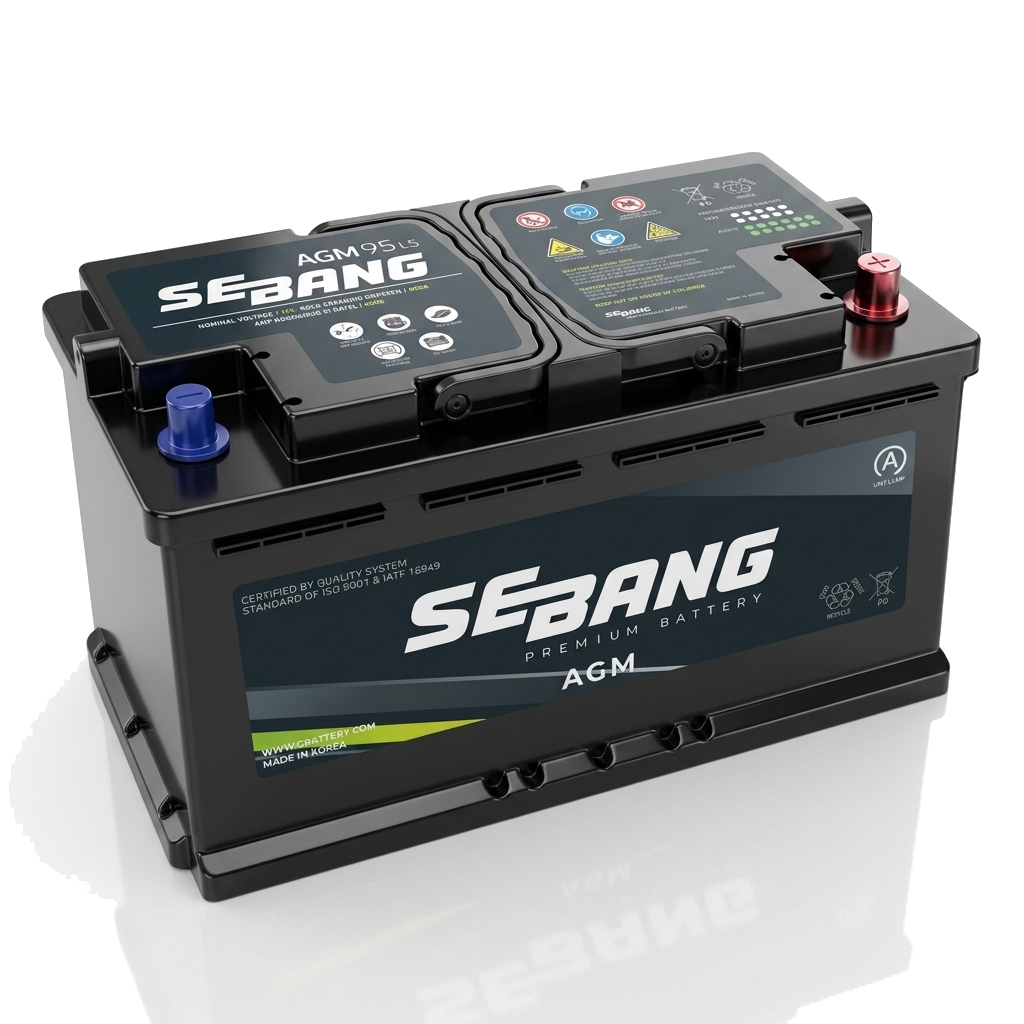
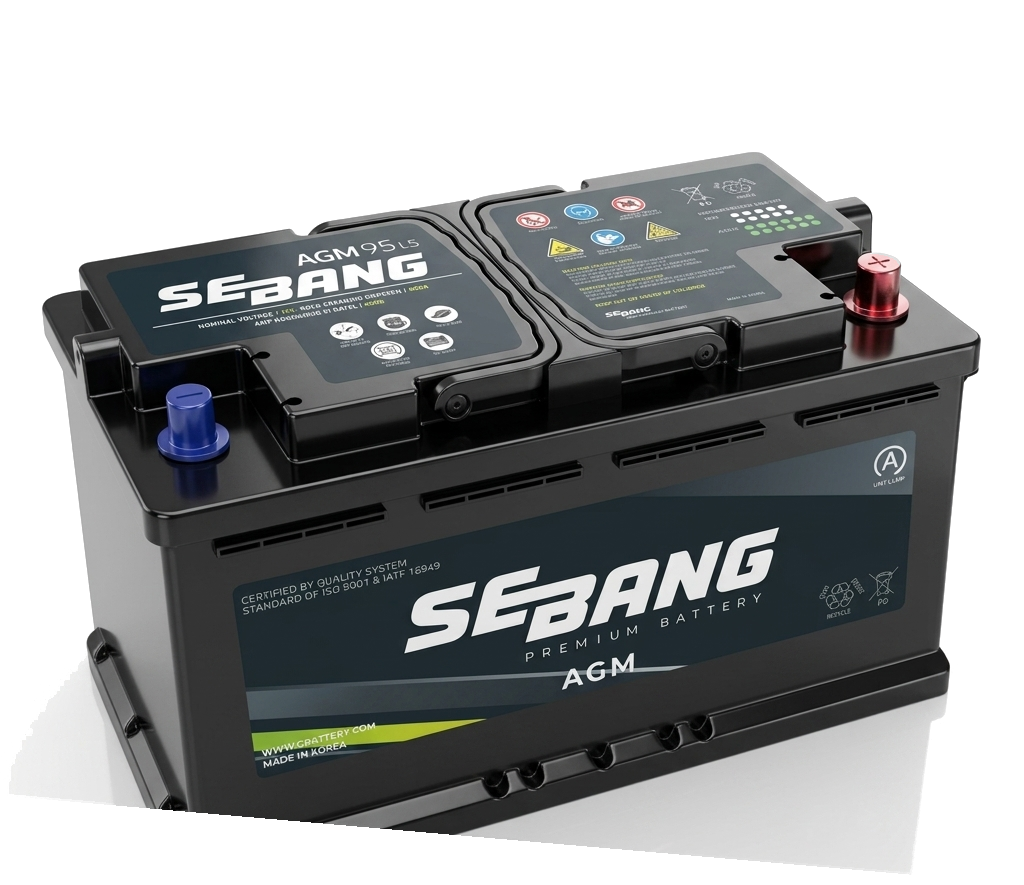
fix: perfectly slice off the AI studio floor reflection diagonally so it doesn't conflict with the CSS drop-shadow in the products slider, preventing the ugly grey blob effect

diff --git a/index.html b/index.html
@@ -98,7 +98,7 @@
                 </div>
                 <div class="about-image slide-in-right">
                     <div class="image-wrapper glassmorphism">
-                        <img src="assets/battery_sebang_isometric.png?v=6" alt="Seabang Premium" class="floating">
+                        <img src="assets/battery_sebang_isometric.png?v=7" alt="Seabang Premium" class="floating">
                     </div>
                 </div>
             </div>
@@ -120,7 +120,7 @@
                     <!-- Tüm Aküler -->
                     <a href="#products" class="sebang-card glassmorphism fade-in-up" draggable="false" style="text-decoration:none;">
                         <div class="sebang-img-wrapper">
-                            <img src="assets/battery_sebang_isometric.png?v=6" alt="Tüm Aküler" class="battery-base" style="width: 100%; height: auto;">
+                            <img src="assets/battery_sebang_isometric.png?v=7" alt="Tüm Aküler" class="battery-base" style="width: 100%; height: auto;">
                         </div>
                         <div class="sebang-card-content">
                             <div class="sebang-info">
@@ -134,7 +134,7 @@
                     <!-- Otomotiv -->
                     <a href="#products" class="sebang-card glassmorphism fade-in-up" draggable="false" style="transition-delay: 0.1s; text-decoration:none;">
                         <div class="sebang-img-wrapper">
-                            <img src="assets/battery_sebang_isometric.png?v=6" alt="Otomotiv Aküleri" class="battery-base" style="width: 100%; height: auto;">
+                            <img src="assets/battery_sebang_isometric.png?v=7" alt="Otomotiv Aküleri" class="battery-base" style="width: 100%; height: auto;">
                         </div>
                         <div class="sebang-card-content">
                             <div class="sebang-info">
@@ -148,7 +148,7 @@
                     <!-- Ticari -->
                     <a href="#products" class="sebang-card glassmorphism fade-in-up" draggable="false" style="transition-delay: 0.2s; text-decoration:none;">
                         <div class="sebang-img-wrapper">
-                            <img src="assets/battery_sebang_isometric.png?v=6" alt="Ticari Araç Aküleri" class="battery-base" style="width: 100%; height: auto;">
+                            <img src="assets/battery_sebang_isometric.png?v=7" alt="Ticari Araç Aküleri" class="battery-base" style="width: 100%; height: auto;">
                         </div>
                         <div class="sebang-card-content">
                             <div class="sebang-info">
@@ -162,7 +162,7 @@
                     <!-- Marin ve Karavan -->
                     <a href="#products" class="sebang-card glassmorphism fade-in-up" draggable="false" style="transition-delay: 0.3s; text-decoration:none;">
                         <div class="sebang-img-wrapper">
-                            <img src="assets/battery_sebang_isometric.png?v=6" alt="Marin ve Karavan Aküleri" class="battery-base" style="width: 100%; height: auto;">
+                            <img src="assets/battery_sebang_isometric.png?v=7" alt="Marin ve Karavan Aküleri" class="battery-base" style="width: 100%; height: auto;">
                         </div>
                         <div class="sebang-card-content">
                             <div class="sebang-info">
@@ -176,7 +176,7 @@
                     <!-- Bahçe ve Tarım -->
                     <a href="#products" class="sebang-card glassmorphism fade-in-up" draggable="false" style="transition-delay: 0.4s; text-decoration:none;">
                         <div class="sebang-img-wrapper">
-                            <img src="assets/battery_sebang_isometric.png?v=6" alt="Bahçe ve Tarım Aküleri" class="battery-base" style="width: 100%; height: auto;">
+                            <img src="assets/battery_sebang_isometric.png?v=7" alt="Bahçe ve Tarım Aküleri" class="battery-base" style="width: 100%; height: auto;">
                         </div>
                         <div class="sebang-card-content">
                             <div class="sebang-info">
@@ -190,7 +190,7 @@
                     <!-- Traksiyoner -->
                     <a href="#products" class="sebang-card glassmorphism fade-in-up" draggable="false" style="transition-delay: 0.5s; text-decoration:none;">
                         <div class="sebang-img-wrapper">
-                            <img src="assets/battery_sebang_isometric.png?v=6" alt="Traksiyoner Aküler" class="battery-base" style="width: 100%; height: auto;">
+                            <img src="assets/battery_sebang_isometric.png?v=7" alt="Traksiyoner Aküler" class="battery-base" style="width: 100%; height: auto;">
                         </div>
                         <div class="sebang-card-content">
                             <div class="sebang-info">
@@ -302,7 +302,7 @@
         <div class="container">
             <div class="features-wrapper">
                 <div class="features-image slide-in-left">
-                    <img src="assets/battery_sebang_isometric.png?v=6" alt="Battery Internals">
+                    <img src="assets/battery_sebang_isometric.png?v=7" alt="Battery Internals">
                 </div>
                 <div class="features-content slide-in-right">
                     <h4 class="section-subtitle">Kalitenin Anatomisi</h4>
